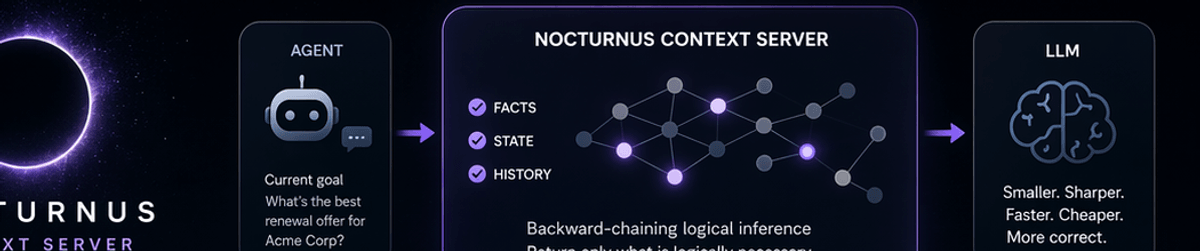
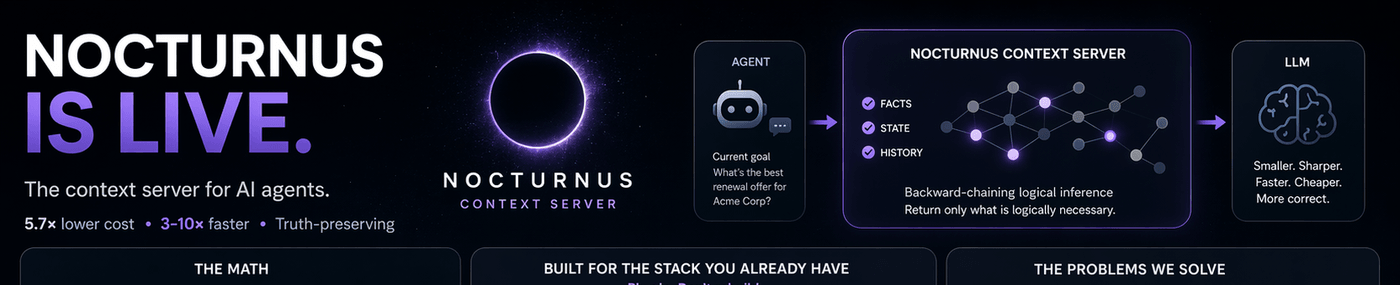
fix: replace ugly MCP Glama badge and cropped infographic
README: Replace glama.ai badge (renders a huge unflattering preview
card on GitHub with an F license score) with a simple shields.io
MCP-compatible badge linking to the MCP docs.

How-it-works: Replace cropped infographic strip (clipped edges, tiny
sliver) with a native HTML/CSS pipeline diagram using the Nocturnus
owl icon. Three cards — Agent → Nocturnus → LLM — with responsive
stacking on mobile.

diff --git a/README.md b/README.md
@@ -5,7 +5,7 @@
 [![npm](https://img.shields.io/npm/v/nocturnusai-sdk?logo=npm&logoColor=white)](https://www.npmjs.com/package/nocturnusai-sdk)
 [![Docker](https://img.shields.io/badge/docker-ghcr.io%2FAuctalis%2Fnocturnusai-blue?logo=docker)](https://github.com/Auctalis/nocturnusai/pkgs/container/nocturnusai)
 [![License: BUSL-1.1](https://img.shields.io/badge/license-BUSL--1.1-orange.svg?logo=spdx&logoColor=white)](LICENSE)
-[![MCP](https://glama.ai/mcp/servers/Auctalis/nocturnusai/badge?score=true)](https://glama.ai/mcp/servers/Auctalis/nocturnusai)
[1 lines of base64/hex data omitted]
 
 > **The context engineering engine for AI agents: send only what changed.**
 
